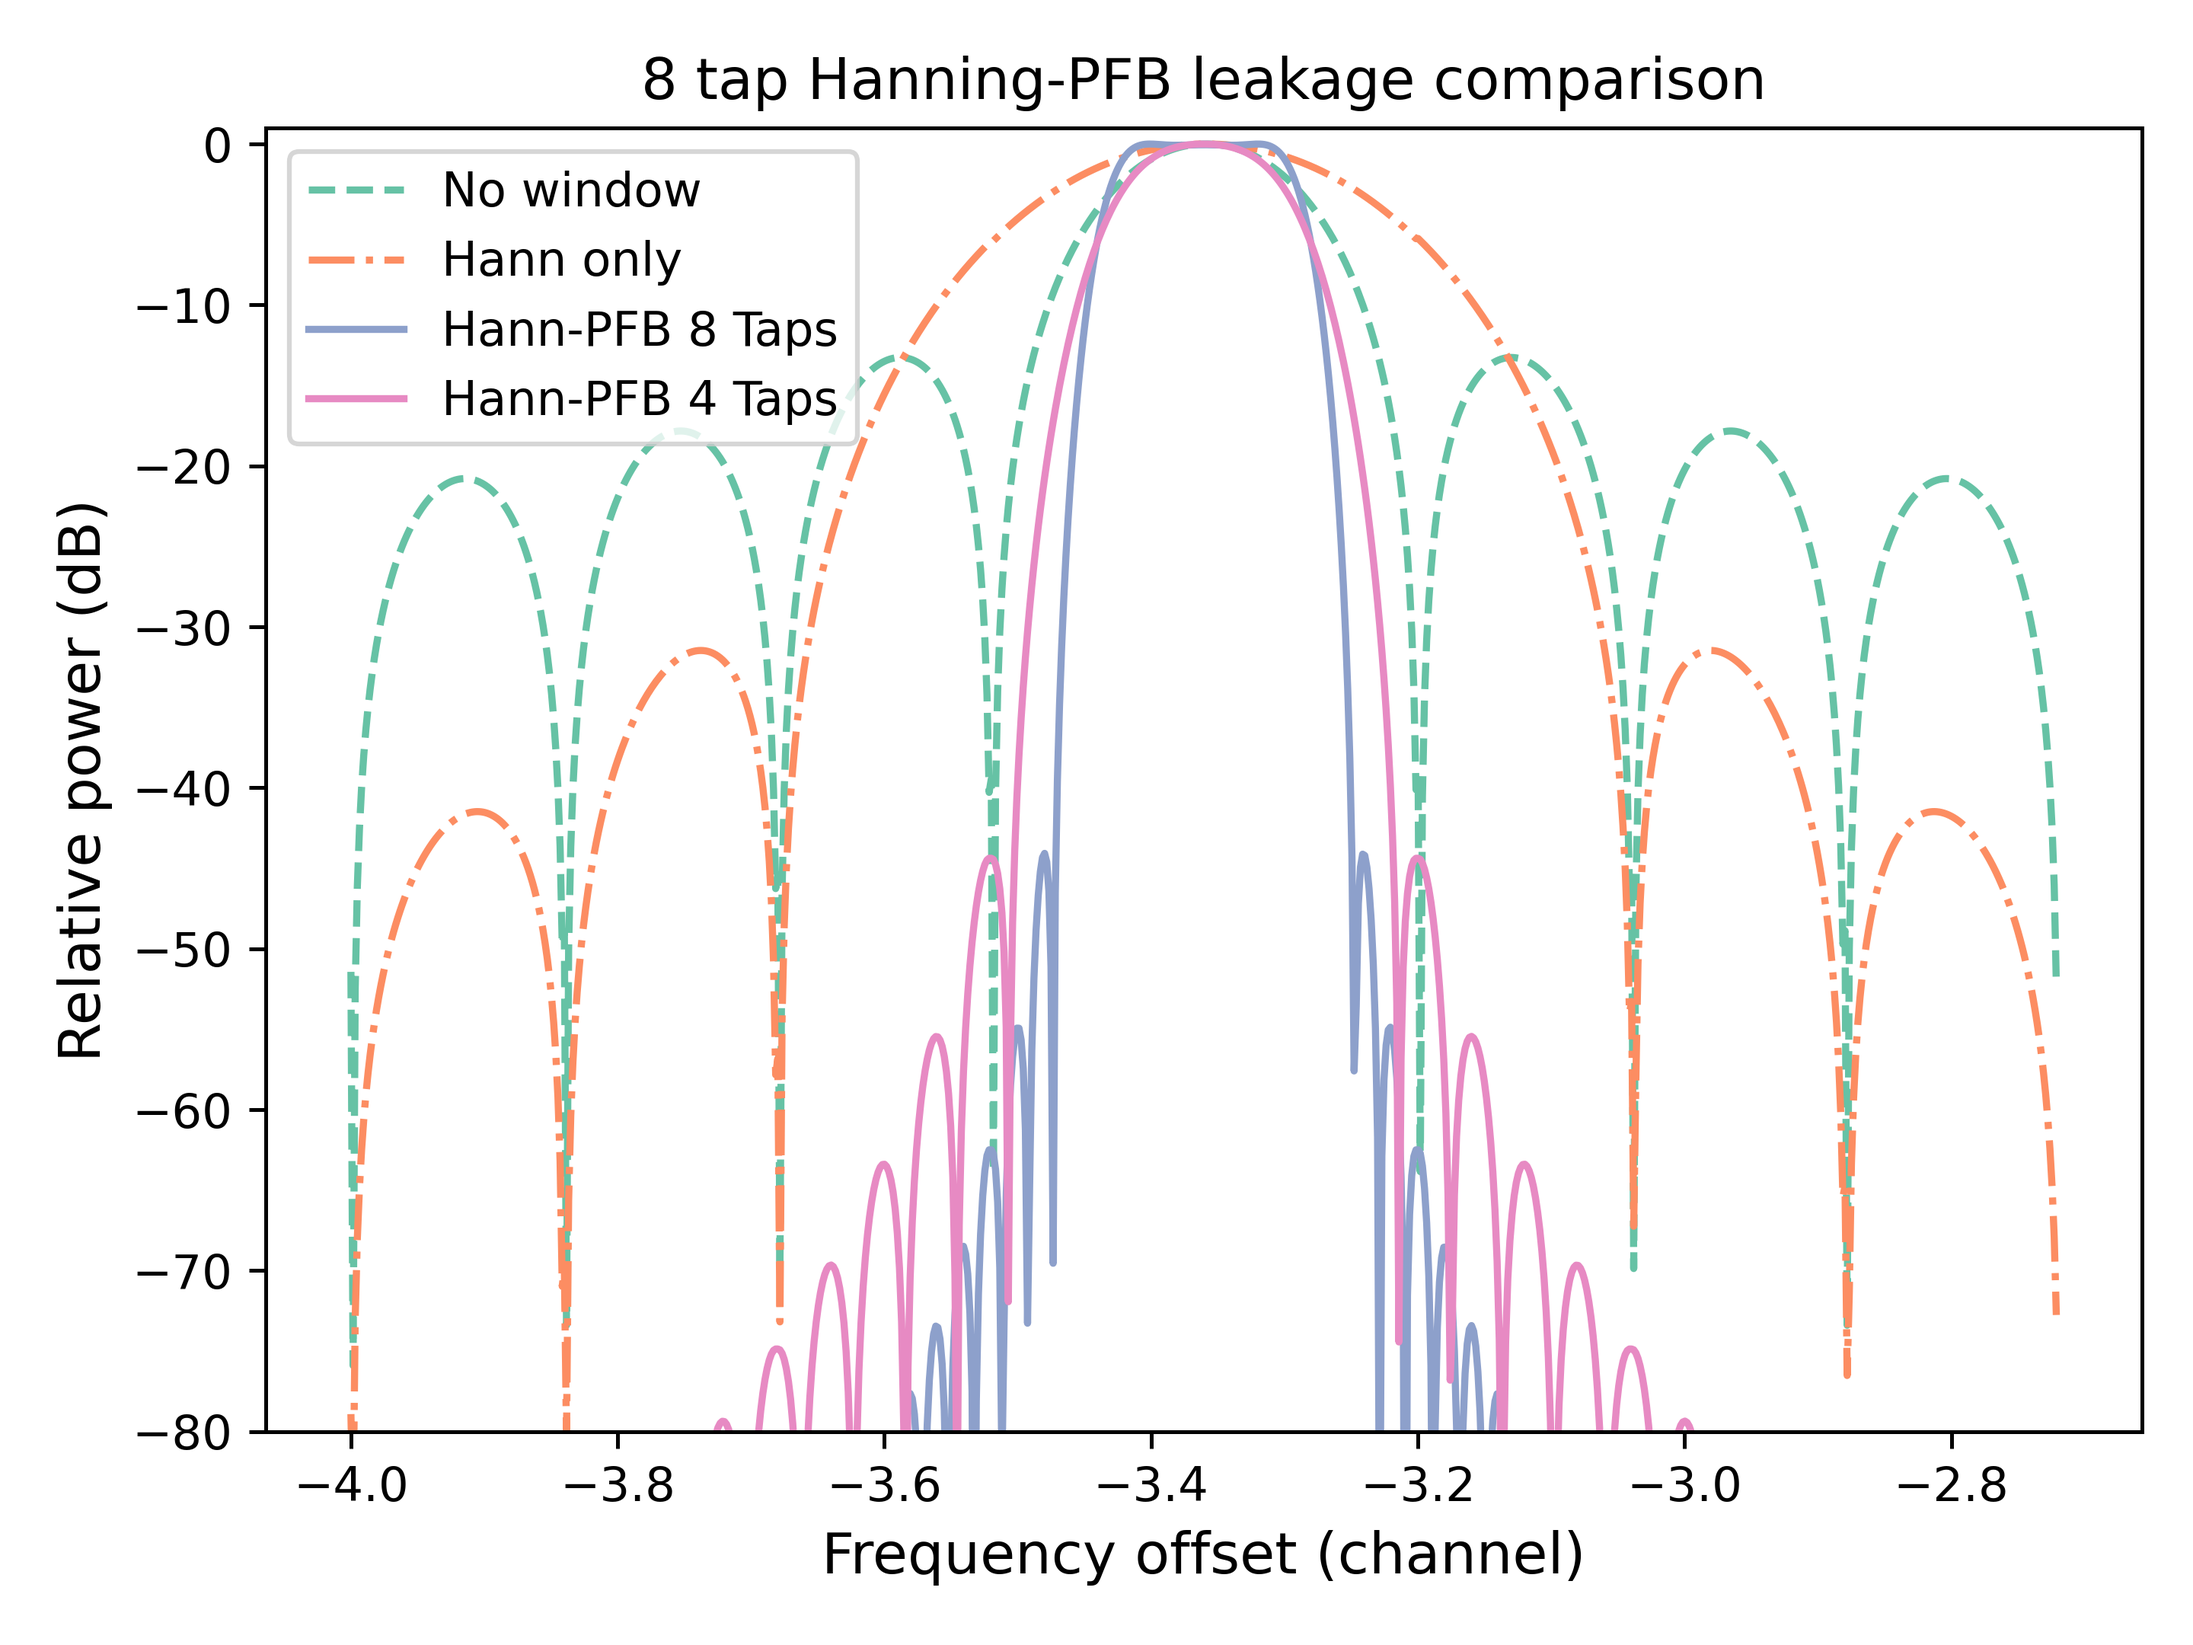
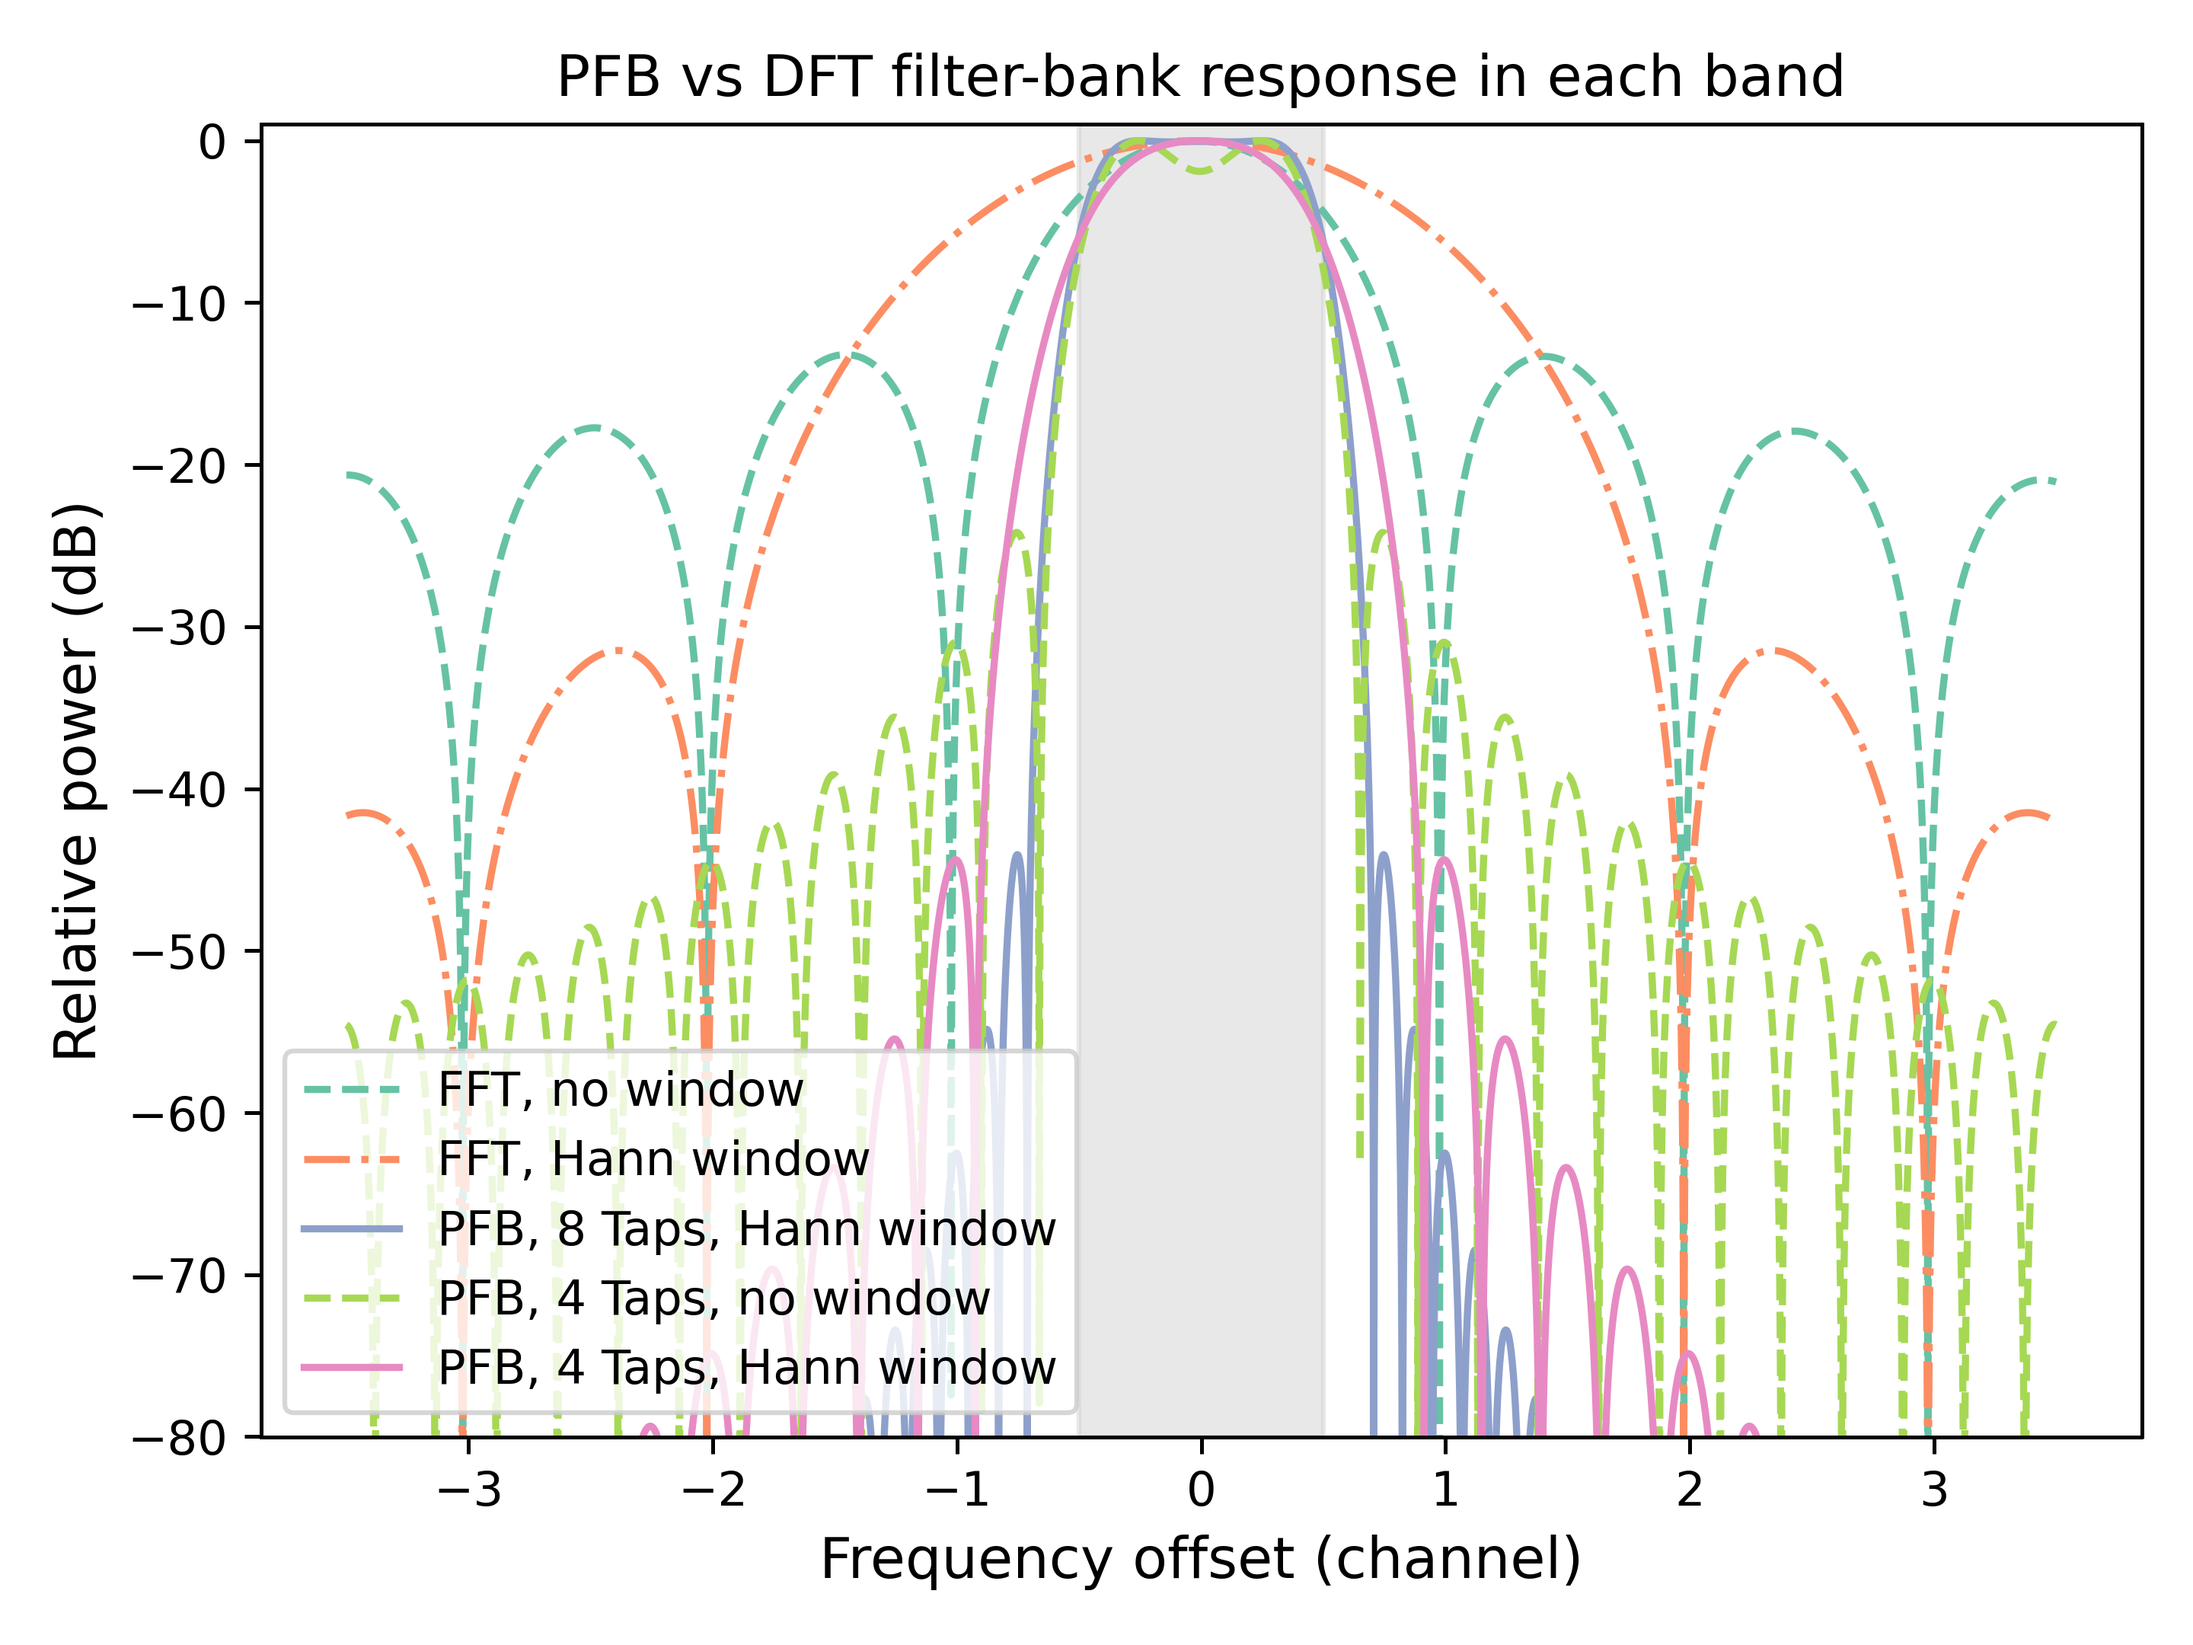
style(plots/sidelobes.py): response of pfb comparison plot modified and refactored

Changed region(s): [[0.0312, 0.031, 0.9688, 0.9616], [0.0312, 0.3102, 0.0625, 0.3722], [0.6562, 0.1551, 0.6875, 0.1861]]

diff --git a/plots/sidelobes2.py b/plots/sidelobes2.py
@@ -1,32 +1,27 @@
-# Mohan's plot
 import numpy as np
 import matplotlib.pyplot as plt
 
-NX=5000 # number of x times to sample
-
+NX=5000 # global var, number of x times to sample
+FREQ_BIN=100 # center frequency bin chosen arbitrarily
 colors=plt.get_cmap('Set2').colors # get list of RGB color values
 
-def sinc_win(P,N):
-    M=N*P
-    x = (np.arange(0,M)-M/2)/N
+def sinc_win(ntap,nframe):
+    n=nframe*ntap
+    x = (np.arange(0,n)-n/2)/nframe
     return np.sinc(x)
 
-def get_pow(n, taper):
-    """Get the freq response of a taper'd DFT."""
-    delnu = np.linspace(1,0,100)
-    pos = np.zeros(NX)
-    fcenter = 10
-    deltaf = np.arange(-3,5)
-    t = np.linspace(0,1,n)
-    # For each frequency calculate the response
-    for i, df in enumerate(deltaf):
-        for j,dnu in enumerate(delnu):
-            x=taper(n)*np.exp(2j*np.pi*(fcenter+dnu)*t) # tapered sine wave
-            X=np.fft.fft(x)                             # FFT
-            pos[i*100+j] = np.abs(X[fcenter+df])**2     # power
-    return pos
+def response_of_freq_x_in_bin_fft(x_freq, freq_bin, nframe, taper):
+    time_arr = np.linspace(0, 1, nframe)
+    tapered_sine_wave = taper(nframe) * np.exp(2j*np.pi*x_freq*time_arr)
+    return np.abs(np.fft.rfft(tapered_sine_wave)[freq_bin])**2
 
-def pfb(x,nframe,ntap,taper=np.hamming):
+def get_power_fft(nframe, taper=np.hanning):
+    """Get the freq response of a tapered DFT"""
+    freqs = np.linspace(-3.5,3.5,NX) + FREQ_BIN # unitless wave number
+    responses = [response_of_freq_x_in_bin_fft(freq, FREQ_BIN, nframe, taper) for freq in freqs]
+    return freqs, responses
+
+def pfb(x,nframe,ntap,taper=np.hanning):
     if taper is None: taper=np.ones
     h = taper(nframe*ntap)      # taper function
     s = sinc_win(ntap,nframe)   # sinc function
@@ -34,42 +29,47 @@ def pfb(x,nframe,ntap,taper=np.hamming):
     X = X[::ntap].copy()        # decimate (could chop b4 FFT too)
     return X
 
-def get_pow_pfb(nframe, ntap, taper=np.hanning):
-    """Get the frequency response of a PFB."""
-    delnu = np.linspace(1,0,100)
-    pos = np.zeros(NX)
-    fcenter = 10
-    deltaf = np.arange(-3,5)
-    M=nframe*ntap
-    t = np.linspace(0,ntap,M)
-    for i, df in enumerate(deltaf):
-        for j,dnu in enumerate(delnu):
-            x=np.exp(2j*np.pi*(fcenter+dnu)*t)      # sine wave
-            X=pfb(x,nframe,ntap,taper)              # PFB with optional taper
-            pos[i*100+j] = np.abs(X[fcenter+df])**2 # power
-    return pos
+def response_of_freq_x_in_bin(x_freq, freq_bin, nframe, ntap, taper):
+    """x_freq and y_freq are wave numbers, so t is from 0 to 1"""
+    time_arr = np.linspace(0,ntap,nframe*ntap)
+    tapered_sine_wave = np.exp(2j*np.pi*x_freq*time_arr)
+    return np.abs(pfb(tapered_sine_wave, nframe, ntap, taper)[freq_bin])**2
+
+def get_power_pfb(nframe, ntap, taper=np.hanning):
+    freqs = np.linspace(-3.5,3.5,NX) + FREQ_BIN # unitless wave number
+    responses = [response_of_freq_x_in_bin(freq, FREQ_BIN, nframe, ntap, taper) for freq in freqs]
+    return freqs,responses
 
 # helper, normalize to decibel scale
 def decibel(y):
     return 10*np.log10(y/y.max())
 
 
-pos1=get_pow(1024,np.ones)
-pos2=get_pow(1024,np.hanning)
-pos3=get_pow_pfb(1024,8,taper=np.hanning)
-pos4=get_pow_pfb(1024,4,taper=np.hanning)
-pos5=get_pow_pfb(1024,4,taper=None)
+freqs,pos1=get_power_fft(4096,np.ones)
+_,pos2=get_power_fft(4096,np.hanning)
+_,pos3=get_power_pfb(4096,8,taper=np.hanning)
+_,pos4=get_power_pfb(4096,4,taper=np.hanning)
+_,pos5=get_power_pfb(4096,4,taper=np.ones)
+
+pos1=np.array(pos1)
+pos2=np.array(pos2)
+pos3=np.array(pos3)
+pos4=np.array(pos4)
+pos5=np.array(pos5)
 
 print(f"Shapes: {pos1.shape}, {pos2.shape}, {pos3.shape}, {pos4.shape}")
 
-xl=np.linspace(-4,4,NX)
+#xl=np.linspace(-4,4,NX) # depricated
 plt.figure(0)
 plt.title('PFB vs DFT filter-bank response in each band')
-plt.plot(xl,decibel(pos1),"--",label='FFT, no window',color=colors[0])
-plt.plot(xl,decibel(pos2),"-.",label='FFT, Hann window',color=colors[1])
-#plt.plot(xl,decibel(pos3),"-",label='PFB, 8 Taps, Hann window',color=colors[2])
-plt.plot(xl,decibel(pos5),"--",label='PFB, 4 Taps, no window',color=colors[2])
-plt.plot(xl,decibel(pos4),"-",label='PFB, 4 Taps, Hann window',color=colors[3])
+plt.plot(freqs-FREQ_BIN,decibel(pos1),"--",label='FFT, no window',color=colors[0])
+plt.plot(freqs-FREQ_BIN,decibel(pos2),"-.",label='FFT, Hann window',color=colors[1])
+plt.plot(freqs-FREQ_BIN,decibel(pos3),"-",label='PFB, 8 Taps, Hann window',color=colors[2])
+plt.plot(freqs-FREQ_BIN,decibel(pos5),"--",label='PFB, 4 Taps, no window',color=colors[4])
+plt.plot(freqs-FREQ_BIN,decibel(pos4),"-",label='PFB, 4 Taps, Hann window',color=colors[3])
+plt.axvspan(-.5, .5, color='lightgrey', alpha=0.5)
+#plt.axvline(.5,color='lightgrey',linestyle='--')
+#plt.axvline(-.5,color='lightgrey',linestyle='-')
 plt.legend(loc='lower left')
 plt.ylabel('Relative power (dB)',fontsize=12)
 plt.xlabel('Frequency offset (channel)',fontsize=12)
@@ -77,7 +77,5 @@ plt.ylim(-80,1)
 plt.tight_layout()
 plt.savefig("img/sidelobes2.png",dpi=450)
 plt.show()
-
-
 
 
